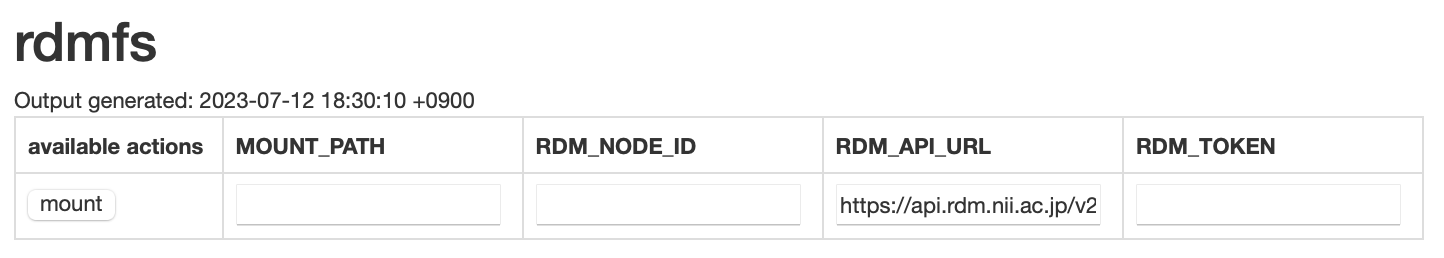
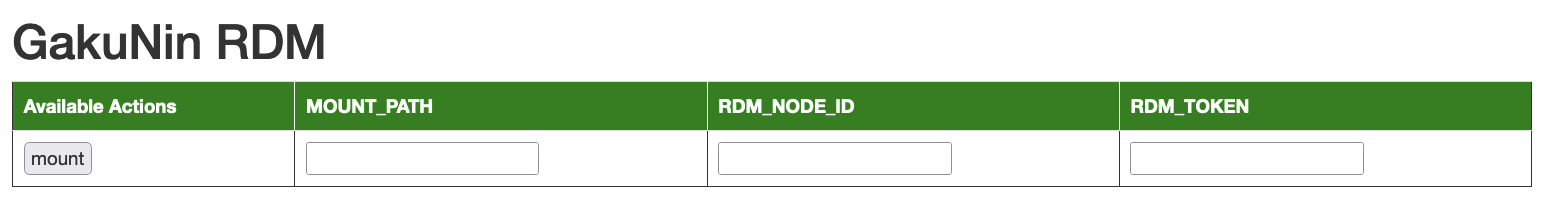
Fix GRDM description

diff --git a/docs/index_ja.html b/docs/index_ja.html
@@ -76,14 +76,13 @@
         <ul>
           <li>MOUNT_POINT：富岳側のマウントポイント（例：/home/rccs-aot/a00000/abc）</li>
           <li>RDM_NODE_ID：GakuNin RDMのプロジェクトのURL（https://rdm.nii.ac.jp/xxx/）のxxxの箇所</li>
-          <li>ROM_API_URL：https://api.rdm.nii.ac.jp/v2/</li>
           <li>ROM_TOKEN：GakuNin RDMのパーソナルアクセストークン</li> 
         </ul>
         <p>
           <img style="border:solid 1px #000000" alt="GakuNin RDM" src="./img/grdm.png" width="600" />
         </p>
         <p>
-          「mount」をクリックすると、指定したGakuNin RDMのプロジェクトが富岳にマウントされます。アンマウントしたい場合は、「unmount」をクリックしてください。なお、富岳ヘルプデスクでは本アプリケーションのサポートは行っておりません。<a href="https://github.com/RCOSDP/CS-ood-rdmfs/">https://github.com/RCOSDP/CS-ood-rdmfs/</a>をご参照ください。
+          「mount」をクリックすると、指定したGakuNin RDMのプロジェクトが富岳にマウントされます。アンマウントしたい場合は、「unmount」をクリックしてください。
         </p>
         
         <!--

diff --git a/docs/index.html b/docs/index.html
@@ -82,7 +82,6 @@
         <ul>
           <li>MOUNT_POINT : mount point on Fugaku (e.g. /home/rccs-aot/a00000/abc)</li>
           <li>RDM_NODE_ID : A part of URL of your project in GakuNin RDM (xxx in https://rdm.nii.ac.jp/xxx/)</li>
-          <li>ROM_API_URL : https://api.rdm.nii.ac.jp/v2/</li>
           <li>ROM_TOKEN : Parsonal access token in GakuNin RDM</li> 
         </ul>
         <p>
@@ -91,7 +90,6 @@
         <p>
           When clicking mount botton, a project directory in GakuNin RDM is mounted to Fugaku.
           When you want to unmount, please click unmount botton.
-          Please note that Fugaku Help Desk does not support this application. Please visit to <a href="https://github.com/RCOSDP/CS-ood-rdmfs/">https://github.com/RCOSDP/CS-ood-rdmfs/</a>.
         </p>
         
         <!--
